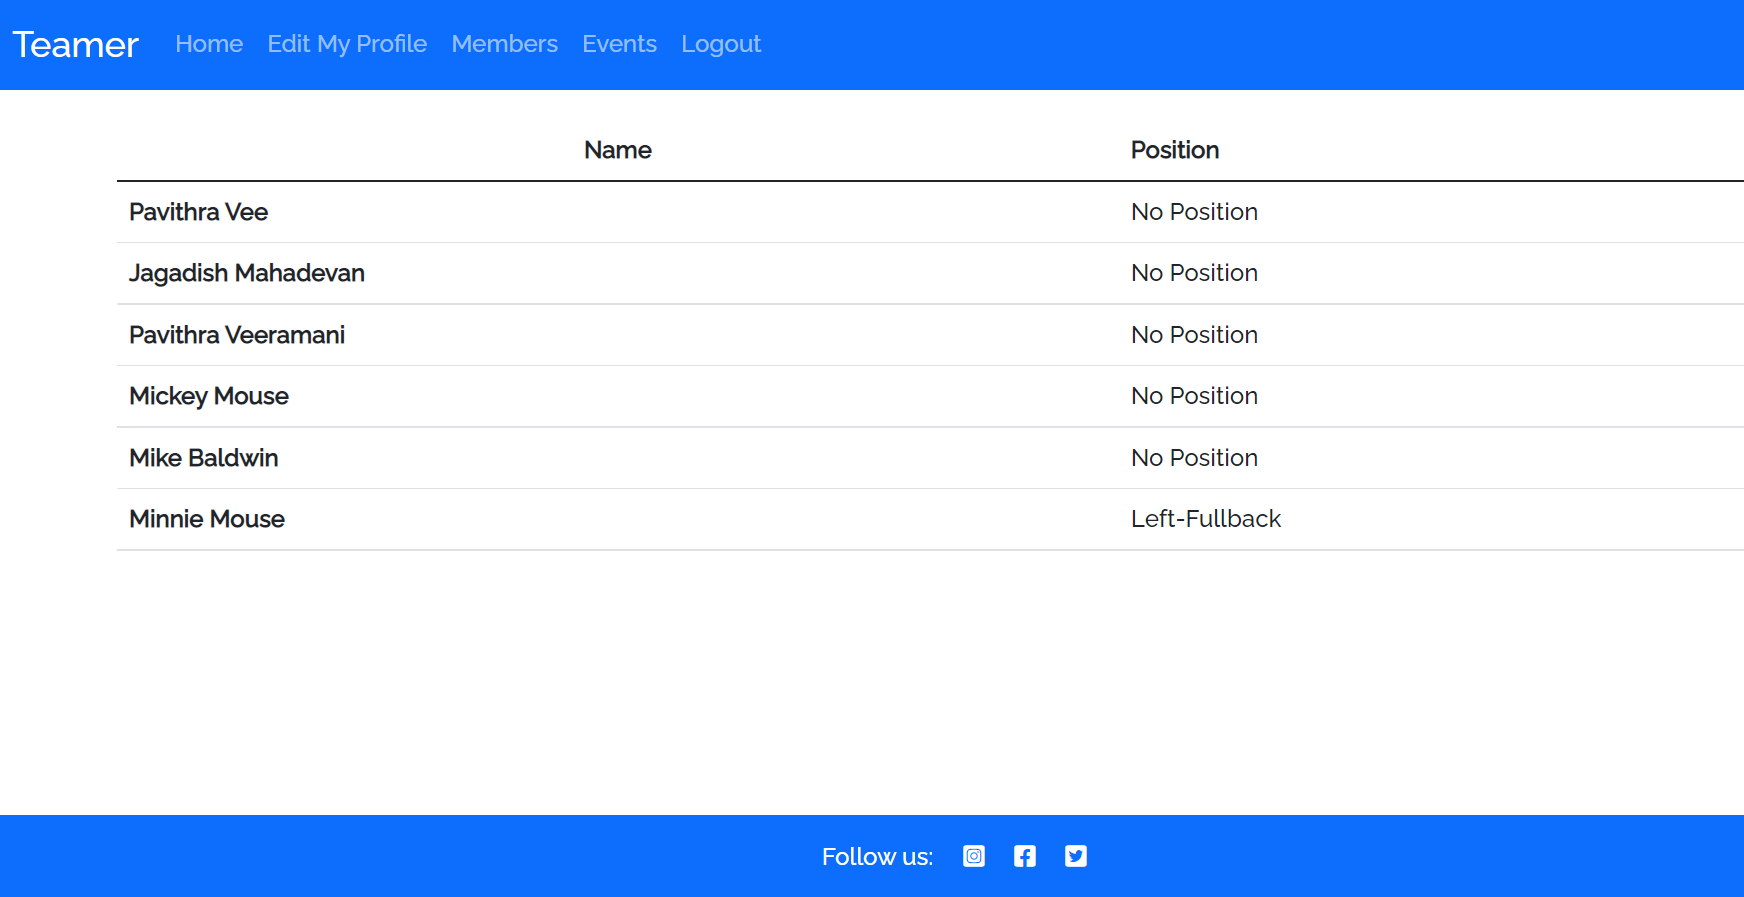
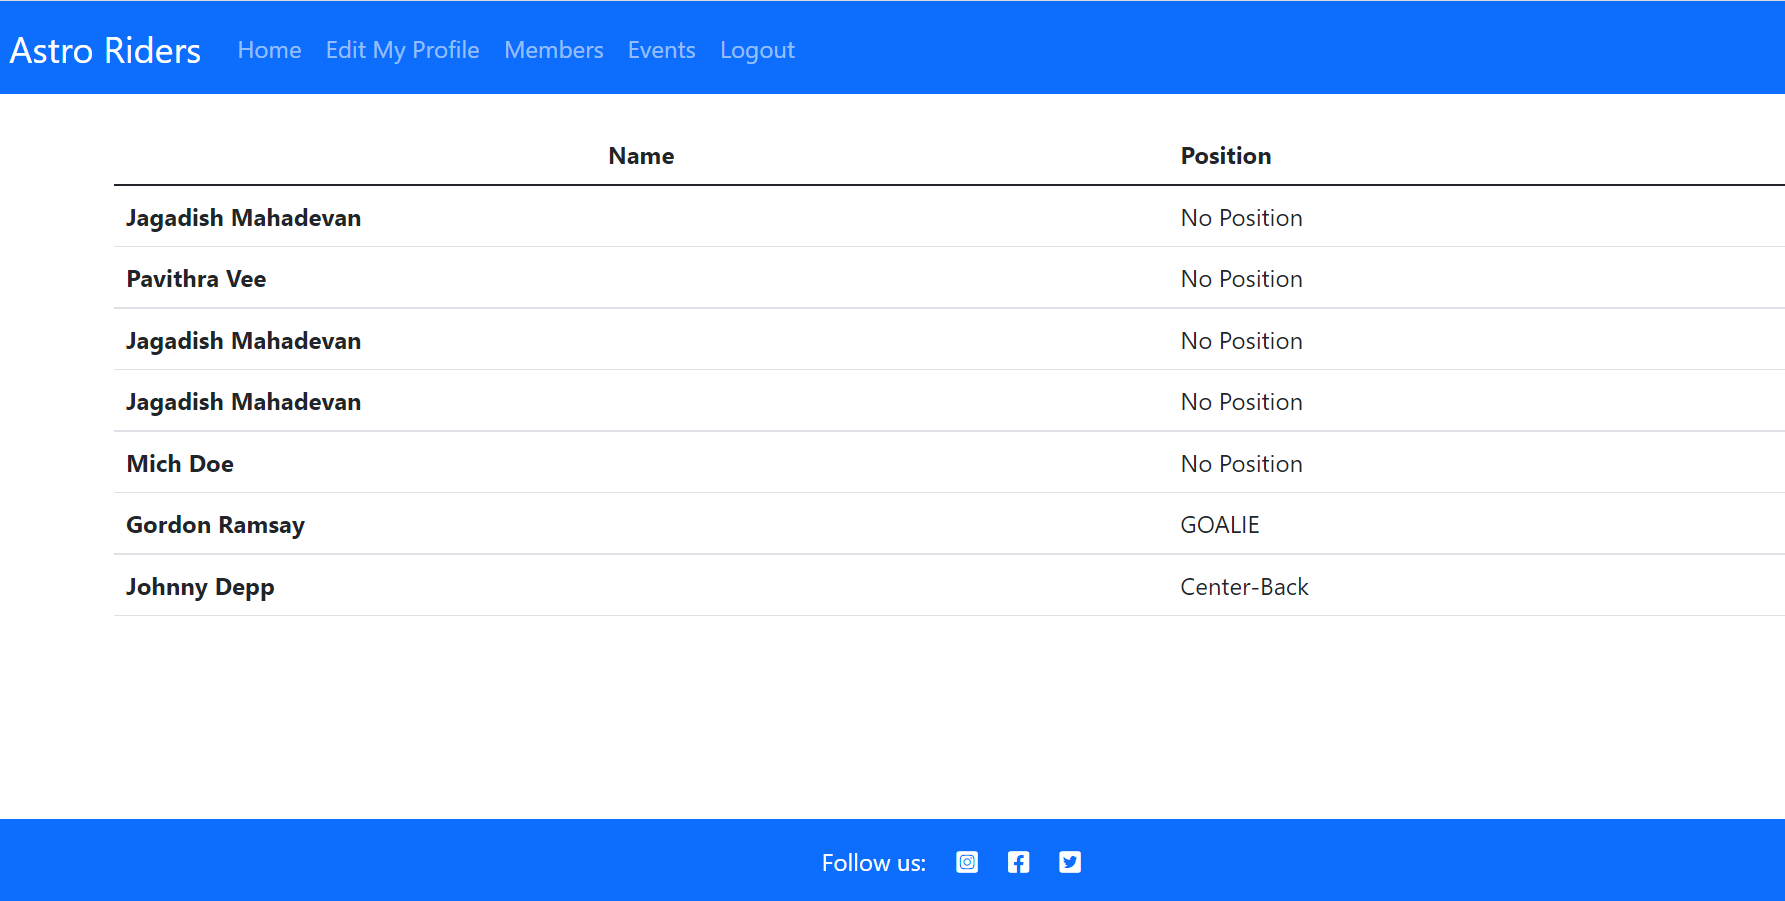
Used latest screenshots

diff --git a/club/templates/base.html b/club/templates/base.html
@@ -4,7 +4,7 @@
 <html class="h-100" lang="en">
 
 <head>
-    <title>Teamer</title>
+    <title>Astro Riders</title>
 
     <link rel="preconnect" href="https://fonts.gstatic.com">
     <link href="https://fonts.googleapis.com/css2?family=Roboto:wght@300&display=swap" rel="stylesheet">
@@ -28,7 +28,7 @@
 
     <nav class="navbar navbar-expand-lg navbar-dark bg-primary" style="background-color: #0077b6;">
         <div class="container-fluid">
-            <a class="navbar-brand" style="font-size: x-large; color: white;" href="{% url 'home' %}"><span class="brand">Teamer</span></a>
+            <a class="navbar-brand" style="font-size: x-large; color: white;" href="{% url 'home' %}"><span class="brand">Astro Riders</span></a>
             <button class="navbar-toggler" type="button" data-bs-toggle="collapse" data-bs-target="#navbarText"
                 aria-controls="navbarText" aria-expanded="false" aria-label="Toggle navigation">
                 <span class="navbar-toggler-icon"></span>

diff --git a/club/templates/event/event_action_success.html b/club/templates/event/event_action_success.html
@@ -1,6 +1,8 @@
 {% extends "base.html" %}
 
 {% block content %}
+
+<!-- Success Message -->
 <div class="card member-details">
     <div class="card-body">
         {{message}}

diff --git a/README.md b/README.md
@@ -17,6 +17,7 @@ A live website can be found [here](https://teamer-app.herokuapp.com/).
       - [User Stories](#user-stories)
     + [Project Management](#project-management)
     + [Wireframe](#wireframe-1)
+    + [Surface](#surface)
     + [Features](#features)
     + [Languages Used](#languages-used)
     + [Technology Used](#technology-used)
@@ -42,6 +43,30 @@ The personal goals for this website are:
 - That users want to signup and engage with its content. 
 <br/>
 
+# Scope
+
+According to the project, not all features can be implemented in the first release of the project.
+For this reason, the project will be divided in multiple phases.The first phase will include the features that have been identified in order to build the minimum requirement.
+
+First Phase
+
+- Create a signup page
+- Create a signin page
+- Create Profile page
+
+Second Phase
+
+- Member can create event
+- Member can delete event
+- Member can edit profile page
+
+Third Phase
+
+- Member can opt for prefered position in create profile.
+-
+
+
+
 ### User Stories
 As a first time I want to:
 
@@ -57,6 +82,8 @@ As a returning visitor:
 - As a returning visitor, I want to create event.
 - As a returning visitor, I want to add myself to the event.
 - As a returning visitor, I want to delete the game and myself from the game.
+
+[Go to the top](#table-of-contents)
 
 # Project Management
 
@@ -83,6 +110,7 @@ GitHub projects was used as aproject management tool. Kanban board was used to a
 **Week 7**
 ![Project Management](static/kanban/kanban_week_7.png)
 
+[Go to the top](#table-of-contents)
 
 # Wireframe
 - [Balsamiq](https://balsamiq.com/) was used to create wireframes for the website.For this project, I created three different wireframes for three different devices. Balsamiq wireframe is used to create outline of the website.  
@@ -98,13 +126,25 @@ GitHub projects was used as aproject management tool. Kanban board was used to a
  
  <hr>
 
+### Entity Relationship Diagram
+
+<img src="static/wireframes/Entity_Relationship_Diagram.png" width="600">
+
+[Go to the top](#table-of-contents)
+
+# Surface
+
+ #### Color Scheme
+
+ ![Color scheme](static/pages_screenshot/coolors.png)
+
+ The colors used in the website are star command blue (#0077b6) for navigation bar and footer. Corn flower blue (#8ecae6) for the create new event form. Consistent white (#ffffff) background color all the pages.
+
  ### Typography
 
  The main font used in the site is raleway. With sanserif as fall back font incase raleway is not imported properly. 
 
-### Entity Relationship Diagram
-
-<img src="static/wireframes/Entity_Relationship_Diagram.png" width="600">
+[Go to the top](#table-of-contents)
 
 # Features
 
@@ -156,6 +196,8 @@ GitHub projects was used as aproject management tool. Kanban board was used to a
 - It consists of first name, lastname and telephone number.
 ![edit_my_profile](static/pages_screenshot/edit-my-profile.png)
 
+[Go to the top](#table-of-contents)
+
 # Technologies Used
 
 [Go to the top](#table-of-contents)
@@ -182,6 +224,8 @@ GitHub projects was used as aproject management tool. Kanban board was used to a
     -   Google fonts were used to import the "Be Vietnam Pro" font into the style.css file which is used on all pages throughout the project.
 -   [GitHub](https://github.com/)
     -   GitHub was used to store the project's code after being pushed from Git.
+
+[Go to the top](#table-of-contents)
 
 # Testing
 
@@ -271,12 +315,15 @@ Accessibility | Checked the accessibility of the page using lighthouse| PASS
 ### Responsive Tools
 [Am I Responsive](https://ui.dev/amiresponsive) was used to check if all screens are responsive to all devices.
 
-### Html Validation
+### Html Validation:
 I used [W3C Markup](https://validator.w3.org/#validate_by_input+with_options) to check for any errors within the HTML pages.
+![html_validation](static/wireframes/add-html-validation.png)
+Errors in the html validation could not be rectified because of the jinja template 
 
-#### CSS:
-[W3C CSS Validation](https://jigsaw.w3.org/css-validator/) to check for any errors within my CSS stylesheet.
-[css_validation](static/wireframes/css-validator-screenshot.png)
+### CSS:
+![W3C CSS Validation](https://jigsaw.w3.org/css-validator/) to check for any errors within my CSS stylesheet.
+
+![css_validation](static/wireframes/css-validator-screenshot.png)
 
 ### Python
 [PeP 8](http://pep8online.com/) to check for any errors in python code.
@@ -290,11 +337,13 @@ urls.py
 views.py
 ![pep8_validation](static/wireframes/views.py-screenshot.png)
 
-### Bugs
+[Go to the top](#table-of-contents)
+
+# Bugs
 
 
 
-### Deployment
+# Deployment
 
 [Go to the top](#table-of-contents)
 
@@ -368,6 +417,8 @@ Further reading and troubleshooting on cloning a repository from GitHub [here](h
 
 <a name="end-product"></a>
 
+[Go to the top](#table-of-contents)
+
 # Credits
 
 ### Media
@@ -377,15 +428,17 @@ Further reading and troubleshooting on cloning a repository from GitHub [here](h
 
 ### Code
 [Stack Overflow](https://stackoverflow.com/) were referenced to get better ideas in order to understand and implement the code.
+
 [Bootstrap](https://getbootstrap.com/) were referenced for the bootstrap ideas. 
 
+[Go to the top](#table-of-contents)
 
-### Acknowledgements
+# Acknowledgements
 
 - Thanks to my mentor Marcel Mulders for his support and feedback.
 
 - Thanks to the tutor support in code institute for their support.
 
-
+[Go to the top](#table-of-contents)
 
 
